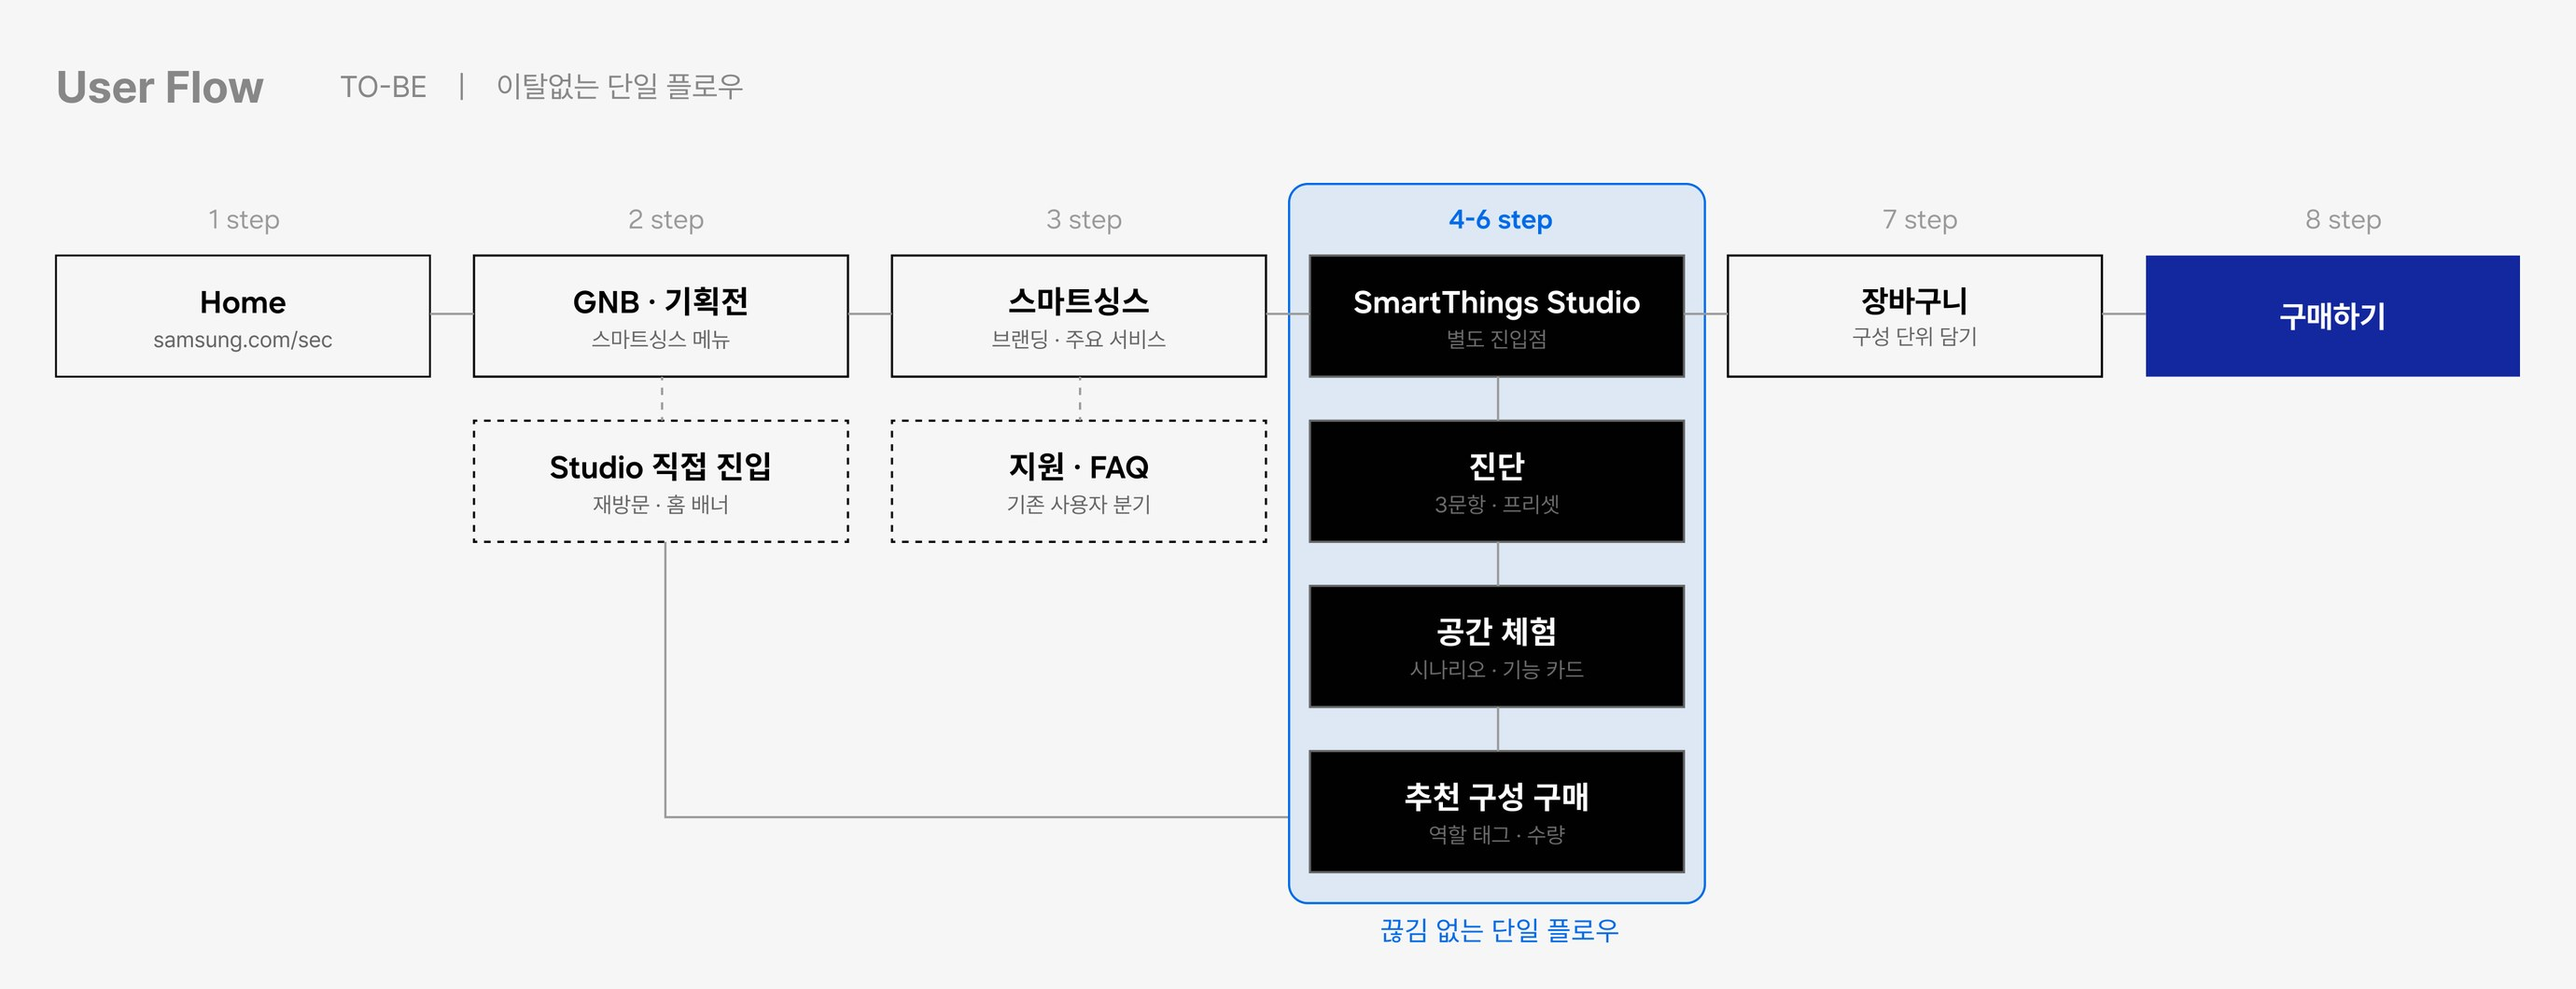
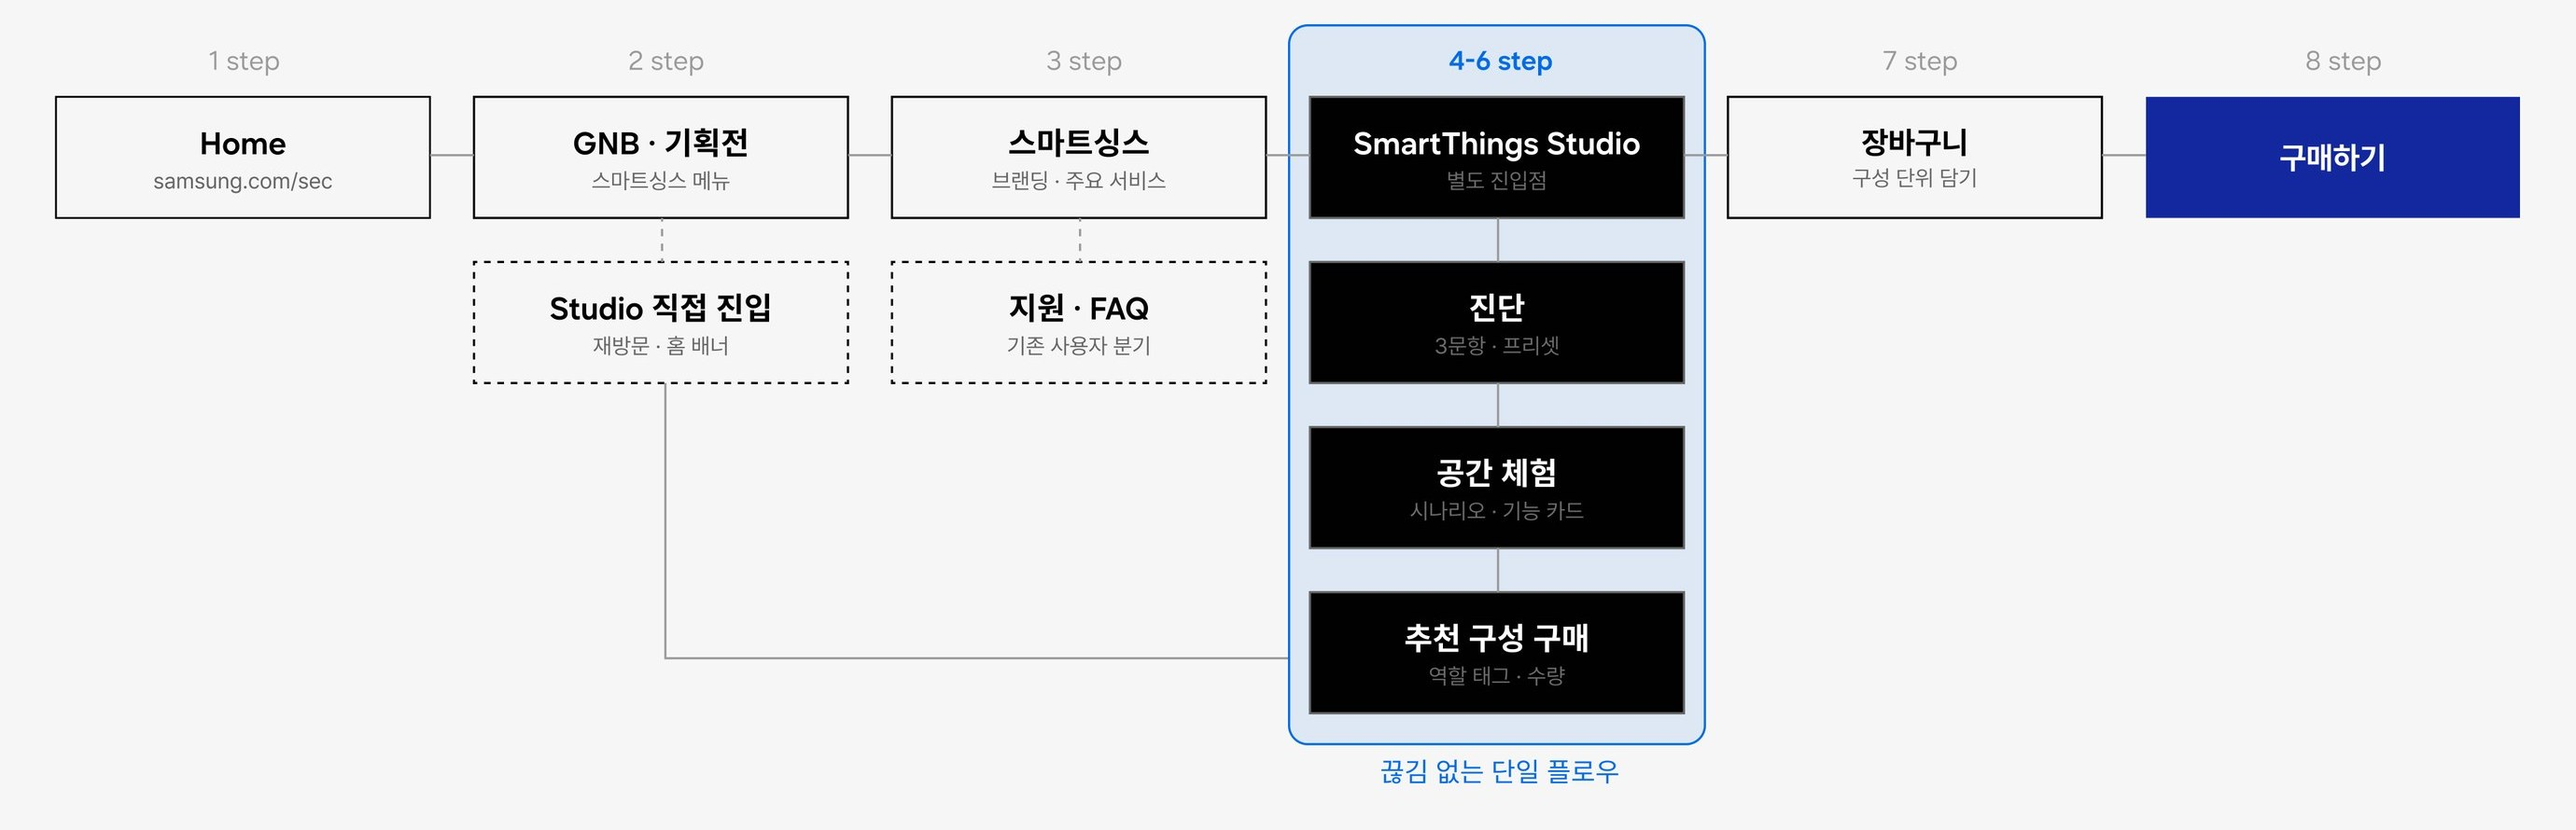
Catchtable: workflow/result headings, HTML flow captions with blue TO-BE
Claude-Session: https://claude.ai/code/session_01YA1f9o6pRyCJaqnAc7Xkww

diff --git a/catchtable/index.html b/catchtable/index.html
@@ -570,6 +570,11 @@
   .uf.asis { border:1px solid #eee; background:#fff; }
   .uf.tobe { background:#f6f6f6; margin-bottom:0; }
   .uf img { display:block; width:100%; height:auto; }
+  .uf figcaption { display:flex; align-items:center; gap:calc(var(--u)*14); margin:0 0 calc(var(--u)*24); font-size:max(13px, calc(var(--u)*18)); color:#666; }
+  .uf figcaption b { font-size:max(14px, calc(var(--u)*22)); color:#111; letter-spacing:.02em; }
+  .uf figcaption i { width:1px; height:1em; background:#ccc; }
+  .uf.tobe figcaption, .uf.tobe figcaption b { color:var(--blue); }
+  .uf.tobe figcaption i { background:#9db8ff; }
   .cmp.wide-r { align-items:stretch; }
   .cmp-final { display:flex; flex-direction:column; }
   .cmp-final .shot.mock { flex:1; display:flex; flex-direction:column; justify-content:center; align-items:center; }
@@ -726,7 +731,7 @@
 <div class="sh">
   <div class="sh-head">
     <div class="lbl">AI-INTEGRATED UX WORKFLOW</div>
-    <h2>UX 워크플로우의 단계마다 AI를 도구로 넣고, <br>방향은 리서치 근거로 정했습니다</h2>
+    <h2>UX 워크플로우의 단계마다 AI를 넣고, <br>방향은 리서치 근거로 정했습니다</h2>
     <p>사용성 테스트, 화면 초안, 3D 룸 뷰 시안을 AI로 만들었습니다. 결과물은 리서치에서 확인한 문제를 기준으로 검수하고, Figma 컴포넌트 세트로 정리해 최종 화면을 완성했습니다.</p>
   </div>
   <ol class="flow">
@@ -837,7 +842,7 @@
 </section>
 <section class="page sheet" data-group="case-st" aria-label="SmartThings Studio result">
 <div class="sh">
-  <div class="sh-head"><div class="lbl">RESULT</div><h2>AI를 도구로 다루고, <br>설계 방향은 디자이너가 정했습니다</h2><p>리서치 · 초안 · 비주얼 단계마다 AI에 맡길 일과 직접 판단할 일을 나눴습니다. AI 결과물은 리서치 근거와 검수 기준으로 걸러 실제 화면과 컴포넌트로 만들었습니다.</p></div>
+  <div class="sh-head"><div class="lbl">RESULT</div><h2>AI를 활용하되, <br>설계 방향은 디자이너가 정했습니다</h2><p>리서치 · 초안 · 비주얼 단계마다 AI에 맡길 일과 직접 판단할 일을 나눴습니다. AI 결과물은 리서치 근거와 검수 기준으로 걸러 실제 화면과 컴포넌트로 만들었습니다.</p></div>
   <div class="res3">
     <div><span class="rk">01 · Research</span><h4>AI Usability Test</h4><p class="rt">Maze AI</p>
       <p class="rd">AI 후속 질문과 요약 기능으로 정성 응답을 빠르게 정리하고, 요약은 원문과 대조해 이탈 원인을 확정했습니다.</p></div>
@@ -849,8 +854,8 @@
   <div class="res-flow">
     <h4>그 결과, 구매까지의 흐름을 다시 설계했습니다</h4>
     <p>기능 탐색과 구매가 나뉘어 있던 경로를 SmartThings Studio 안의 진단 → 공간 체험 → 추천 구성 구매로 묶어, 끊김 없는 하나의 흐름으로 제안했습니다.</p>
-    <figure class="uf asis"><img src="img/st/flow-asis.jpg" width="2760" height="1220" alt="AS-IS 유저 플로우 — 구매까지 최대 10단계, 페이지 이동 7회" loading="lazy"></figure>
-    <figure class="uf tobe"><img src="img/st/flow-tobe.jpg" width="2760" height="1060" alt="TO-BE 유저 플로우 — SmartThings Studio 중심의 단일 플로우" loading="lazy"></figure>
+    <figure class="uf asis"><figcaption><b>AS-IS</b><i></i>구매까지 최대 10단계 · 페이지 이동 7회</figcaption><img src="img/st/flow-asis.jpg" width="2760" height="1020" alt="AS-IS 유저 플로우 — 구매까지 최대 10단계, 페이지 이동 7회" loading="lazy"></figure>
+    <figure class="uf tobe"><figcaption><b>TO-BE</b><i></i>이탈 없는 단일 플로우</figcaption><img src="img/st/flow-tobe.jpg" width="2760" height="890" alt="TO-BE 유저 플로우 — SmartThings Studio 중심의 단일 플로우" loading="lazy"></figure>
   </div>
 </div>
 </section>
